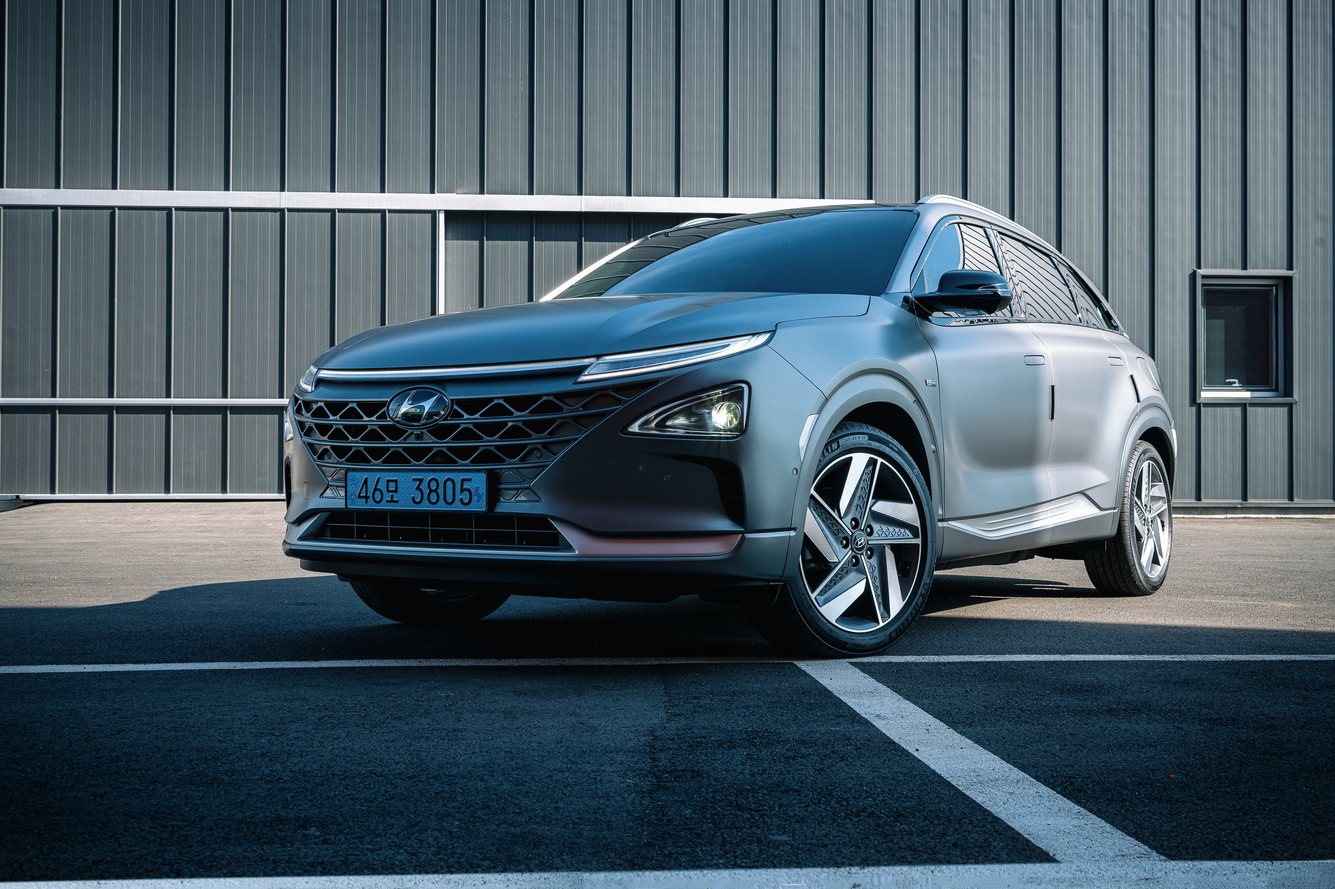
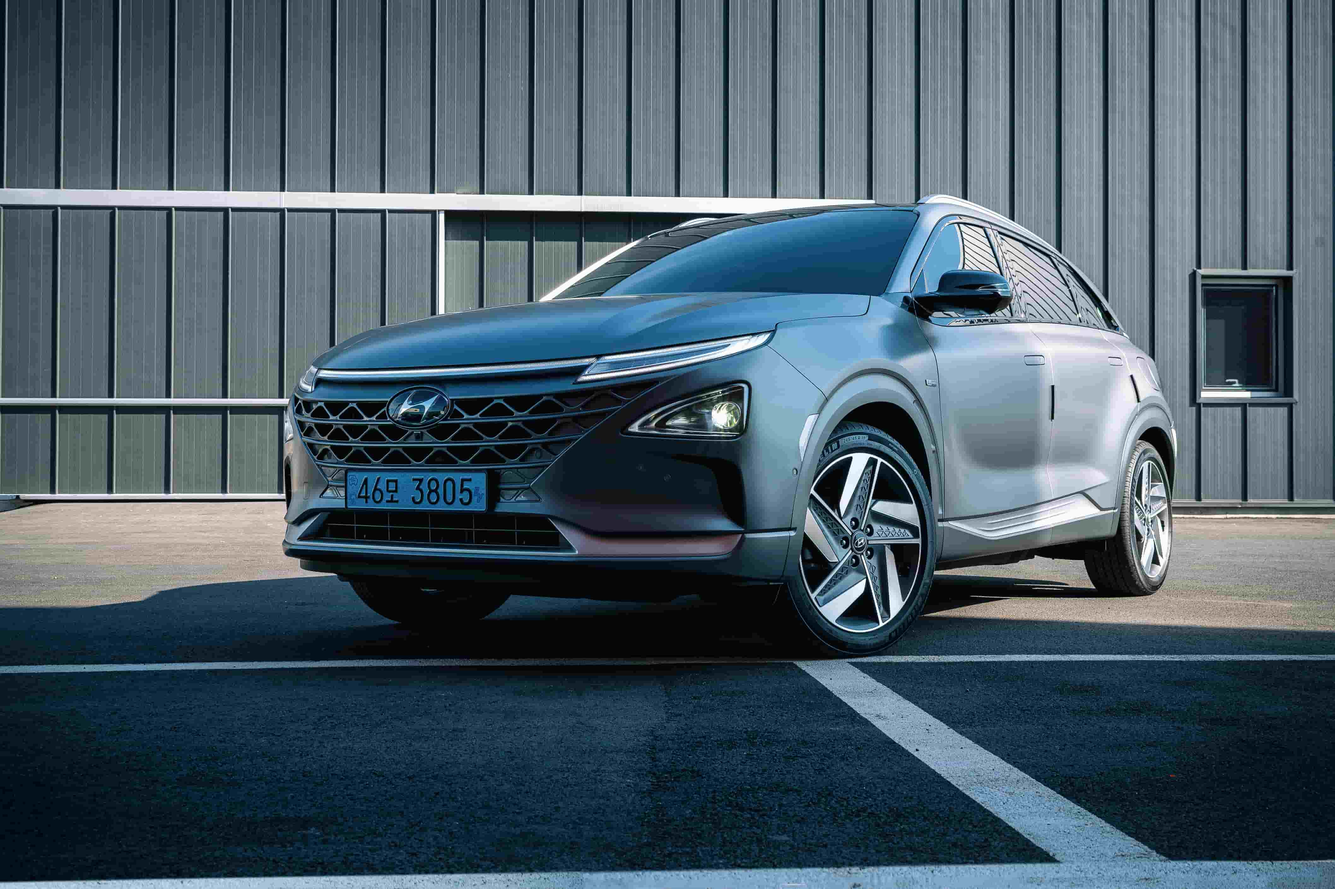
added lighthouse testing and w3c testing images, decmopressed the image size of the showroom gallery

diff --git a/showroom.html b/showroom.html
@@ -45,28 +45,6 @@
          <img src="assets/images/car7.jpg" alt="car ad" style="width:100%">
          <img src="assets/images/car8.jpg" alt="car ad" style="width:100%">
         </div>
-
-        <div>
-            <img src="assets/images/car1.jpg" alt="car ad" style="width:100%"> 
-            <img src="assets/images/car2.jpg" alt="car ad" style="width:100%"> 
-            <img src="assets/images/car3.jpg" alt="car ad" style="width:100%">
-            <img src="assets/images/car4.jpg" alt="car ad" style="width:100%">
-            <img src="assets/images/car5.jpg" alt="car ad" style="width:100%">
-            <img src="assets/images/hero-image2.1.jpg" alt="car ad" style="width:100%">
-            <img src="assets/images/car7.jpg" alt="car ad" style="width:100%">
-            <img src="assets/images/car8.jpg" alt="car ad" style="width:100%">
-           </div>
-
-           <div>
-            <img src="assets/images/car1.jpg" alt="car ad" style="width:100%"> 
-            <img src="assets/images/car2.jpg" alt="car ad" style="width:100%"> 
-            <img src="assets/images/car3.jpg" alt="car ad" style="width:100%">
-            <img src="assets/images/car4.jpg" alt="car ad" style="width:100%">
-            <img src="assets/images/car5.jpg" alt="car ad" style="width:100%">
-            <img src="assets/images/hero-image2.1.jpg" alt="car ad" style="width:100%">
-            <img src="assets/images/car7.jpg" alt="car ad" style="width:100%">
-            <img src="assets/images/car8.jpg" alt="car ad" style="width:100%">
-           </div>
     </div>
 </div>
 

diff --git a/README.md b/README.md
@@ -18,7 +18,22 @@
 
  5. [Features](#Features)
  * [Logo and navigation bar](#logo-and-navigation-bar)
+ * [Footer](#footer)
+ * [Home Page](#home-page)
+ * [Showroom](#showroom)
+ * [Contact](#contact)
+ * [Form](#form)
+ * [Map](#map)
+ * [About](#about)
+ * [Youtube video](#youtube-video)
+
+ 6. [Validation](#validation)
+ * [HTML validation](#html-validation)
+ * [CSS validation](#css-validation)
+
+ 7. [Performance](#performance)
  
+<br>
 
 # Purpose
 I built this website as my first project for the code institutes full stack development and e-commerce applications course. 
@@ -29,7 +44,7 @@ You can find a link to the live website [here](https://mcdaid101.github.io/tommy
 ## Tommy Keys Car Sales
 ![Website Mock Up](assets/readme.images/Multi%20Screen%20screenshot%20.png)
 This website was built for Thomas Keys, a car dealership owner in the North West of Ireland. Mr Keys asked for a website which would be fully responsive and run across a multitude of devices such as phones, tablets and desktops and which would display his business in a positive light and bring more customers to the dealership. Mr Keys wanted a website to show his cars that were for sale, make it easy for customers to find the dealership and make contacting the dealership simple and also show people the story of his dealership and what they were about. 
-
+<br>
 
 # User Experience
 
@@ -65,6 +80,7 @@ This website was built for Thomas Keys, a car dealership owner in the North West
 1. I want users to be able to contact the business easily.
 2. I want users to get to know my business. 
 3. I want users to know where my business is located. 
+<br>
 
 # Structure and Design  
 Each page on the site has the same header with the Tommy Keys Car Sales logo and the same navigation bar containing a home button, showrooom button, contact button and an about button. Similarly to the header navigation bar, each page has the same footer which contains links to Tommy Key's social media platforms. 
@@ -91,6 +107,7 @@ The main font family used is imported from the Google Fonts website and is calle
 ![Website Mock Up](assets/readme.images/contactscreenshot.png)
 ### About 
 ![Website Mock Up](assets/readme.images/about.screenshot.png)
+<br>
 
 # Technology Used 
 
@@ -108,6 +125,10 @@ The main font family used is imported from the Google Fonts website and is calle
 
 # Features
 This website contains 4 webpages
+<br>
+
+<details><summary>Expand for Screenshots of each page and feature</summary>
+<p>
 
 ## Logo and navigation bar 
 ![Logo and navigation bar](assets/readme.images/logo.nav.bar.png)
@@ -117,14 +138,14 @@ This website contains 4 webpages
 * When hovered over their is a red line to indicate you are interacting with it 
 
 ## Footer
-![Logo and navigation bar](assets/readme.images/footer.png)
+![Footer](assets/readme.images/footer.png)
 * The footer is also present on every page 
 * The footer contains a link to Facebook, Twitter, Instagram, Youtube and Tiktok
 * It is fully responsive to different screen sizes 
 
 
 ## Home page
-![Home Page](assets/readme.images/home.page.png.png)
+![Home Page](assets/readme.images/home.page.png)
 * This is the home page the first page users see
 * Users have a link to the contact page through the book a test drive link and a link to the showroom to view other cars 
 
@@ -163,5 +184,68 @@ This website contains 4 webpages
 ![Contact Page](assets/readme.images/youtubevid.png)
 * An embedded youtube video of the story of Tommmy Keys car sales
 * Fully responsive to any device screen size 
+
+</p>
+</details>
+<br>
+
+# Validation 
+
+## HTML validation 
+I tested the website with the W3C HTML Markup validation service and fixed anything that failed.
+<details><summary>HTML validation Screenshot</summary>
+<p>
+
+![html-validated](assets/readme.images/HTML-validator.png)
+
+</p>
+</details>
+
+## CSS validation 
+I tested the website with the W3C CSS Markup validation service and fixed anything that failed.
+<details><summary>CSS validation Screenshot</summary>
+<p>
+
+![CSS-validated](assets/readme.images/CSS-screenshot%20.png)
+
+</p>
+</details>
+
+<br>
+
+# Performance 
+Google lighthouse was used to test the performance of the website 
+
+<details><summary>Home Page</summary>
+<p>
+
+![Ligthouse](assets/readme.images/Home.report.png)
+
+</p>
+</details>
+
+<details><summary>Showroom</summary>
+<p>
+
+![Ligthouse](assets/readme.images/showroom.report.png)
+
+</p>
+</details>
+
+<details><summary>Contact</summary>
+<p>
+
+![Ligthouse](assets/readme.images/contact.report.png)
+
+</p>
+</details>
+
+<details><summary>About</summary>
+<p>
+
+![Lighthouse](assets/readme.images/about.report.png)
+
+</p>
+</details>
 
 
